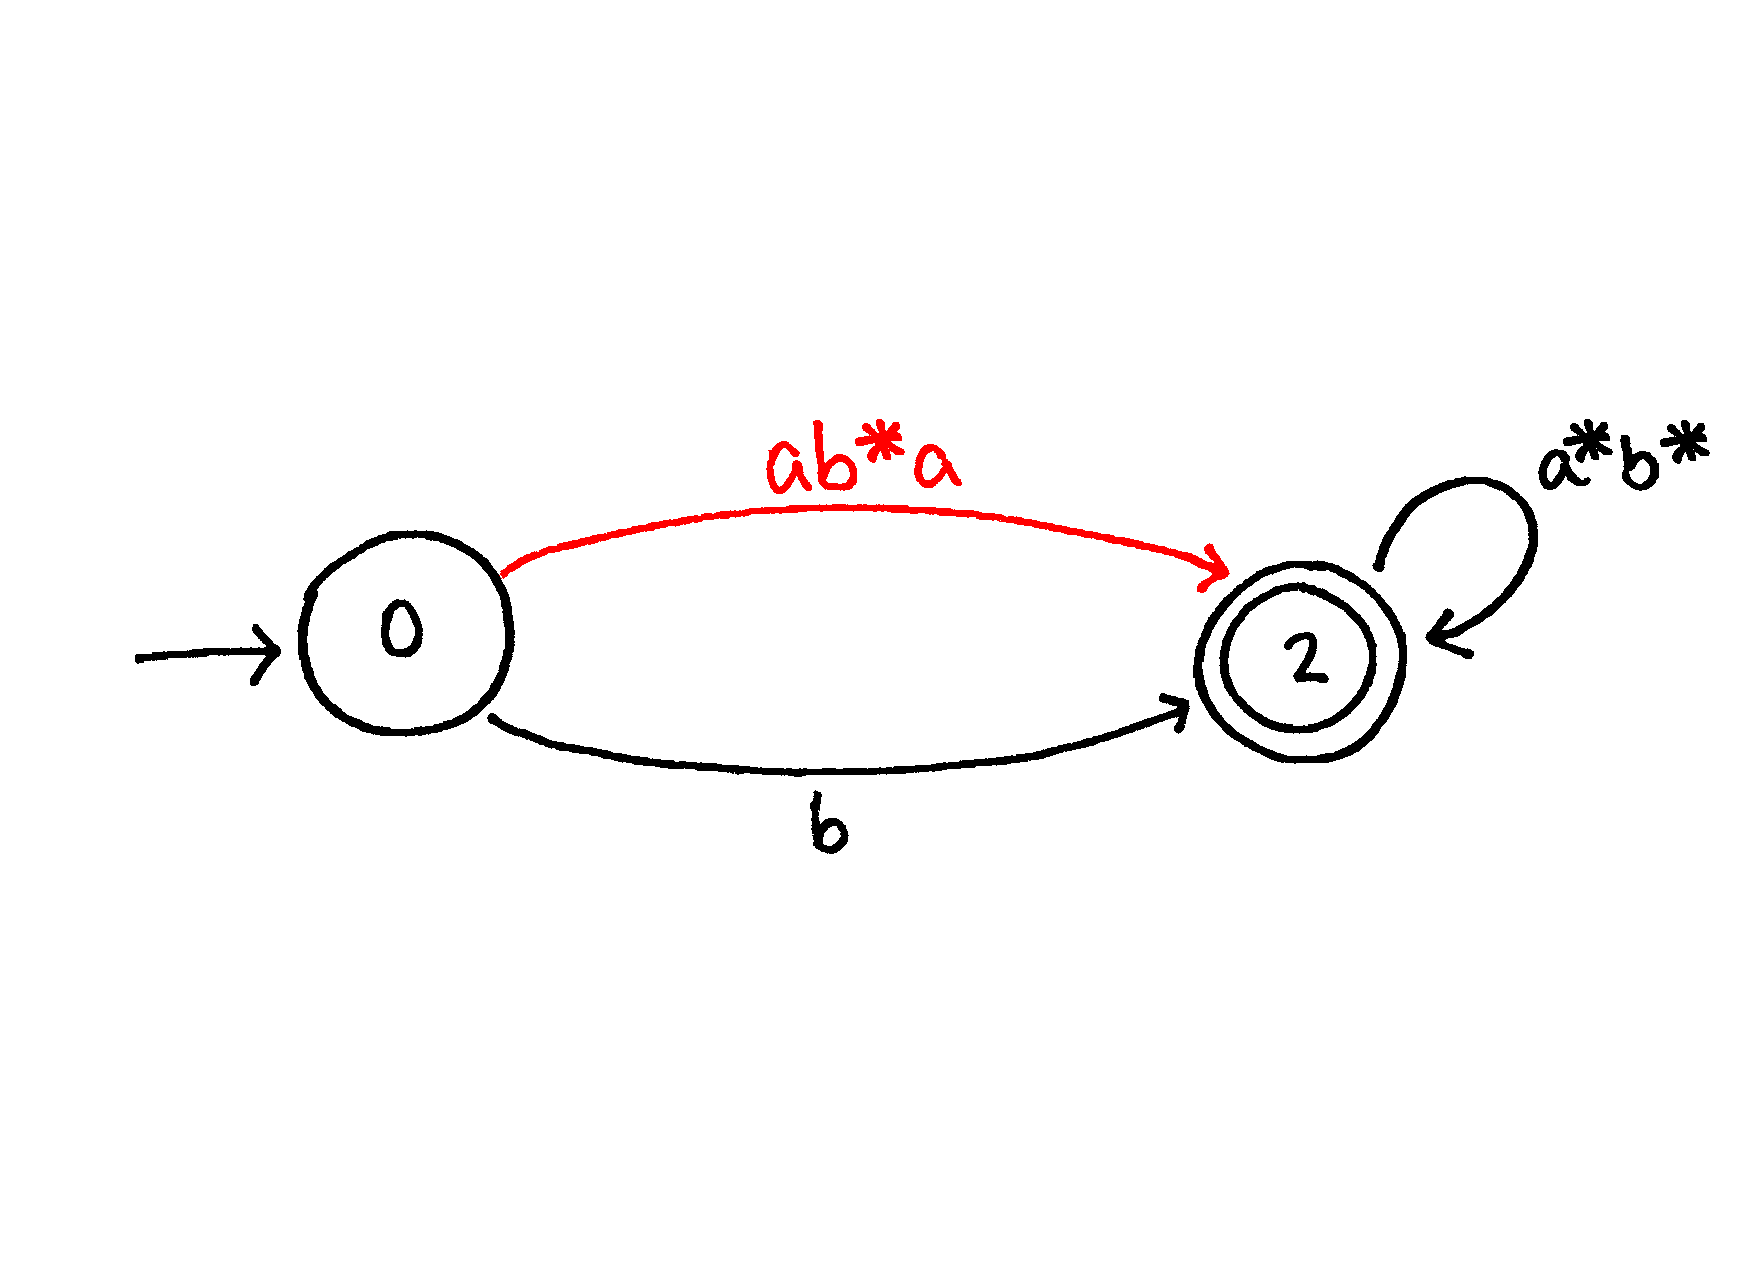
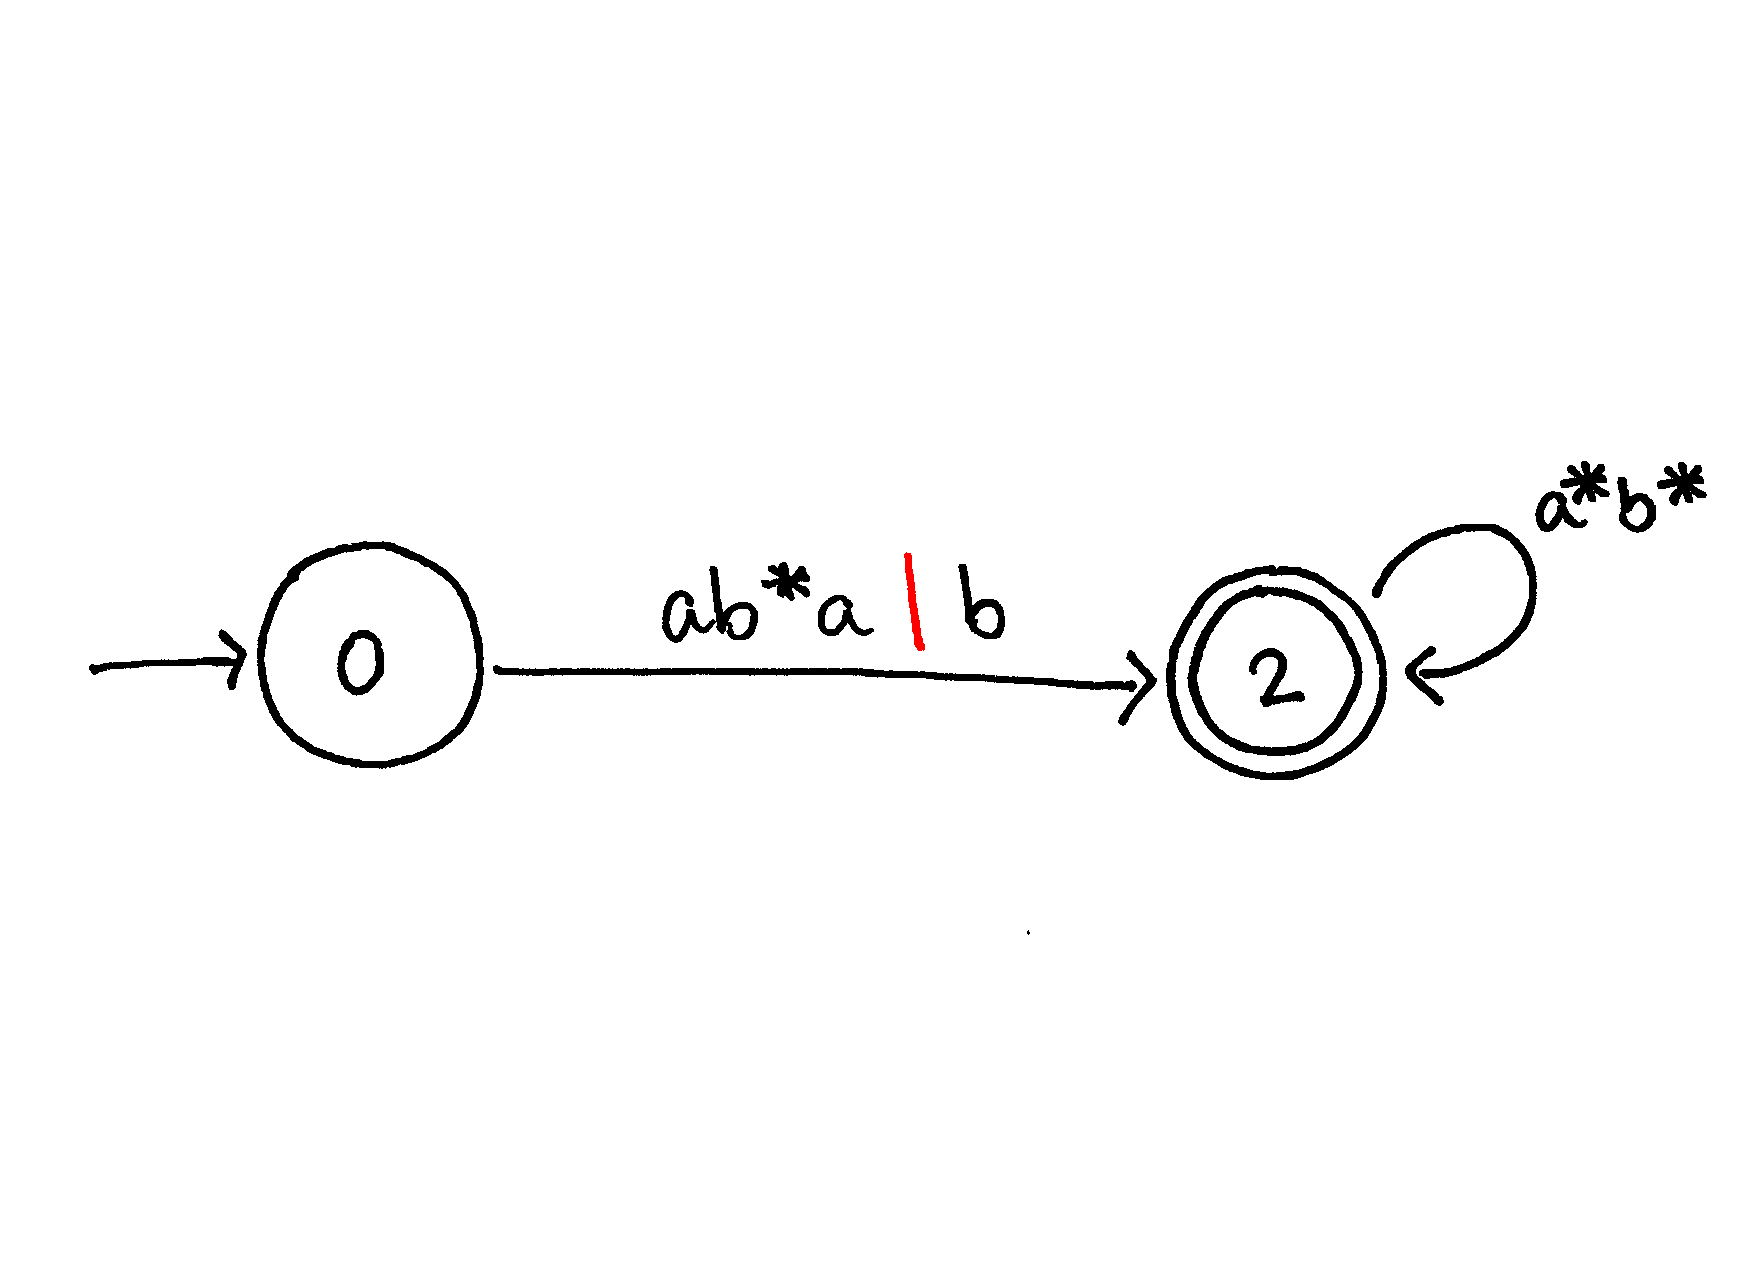
updated NFA to Regex and references

diff --git a/nfa_to_regex_examples.html b/nfa_to_regex_examples.html
@@ -75,16 +75,93 @@
                     <h2 class="section-heading">Practice Problems for NFA to Regex</h2>
                     <hr class="light">
 
-                    <ol class="regex-nfa">
-                        <li>Example 1</li>
-                        <li>Example 2</li>
-                        <li>Example 3</li>
-                        <li>Example 4</li>
-                        <li>Example 5</li>
-                    </ol>
+                    <p>Here are some practice problems.<br>
+                    Try to convert the NFA to a regular expression.<br>
+                    Read the captions for guidance.<br><br>
+                    *Disclaimer: There are many other ways to write regular expressions so don't dispair if your final regex is not the as ours!</p>
 
-                    Click below to learn how to convert regex to NFA!<br>
-                    <a href="regex_to_nfa.html" class="btn btn-default btn-xl sr-button">Learn more</a>
+                    <p class="problem">Practice Problem 1</p>
+                    <div id="myCarousel" class="carousel slide" data-ride="carousel" data-interval="false">
+                      <!-- Indicators -->
+                      <ol class="carousel-indicators">
+                        <li data-target="#myCarousel" data-slide-to="0" class="active"></li>
+                        <li data-target="#myCarousel" data-slide-to="1"></li>
+                        <li data-target="#myCarousel" data-slide-to="2"></li>
+                      </ol>
+
+                      <!-- Wrapper for slides -->
+                      <div class="carousel-inner">
+                        <div class="item active">
+                          <center><img src="img/NFAtoRegex/ex3.0.png" class="img-size3"><br><p class="car-text">Given this NFA, we will create a regular expression.</p></center>
+                        </div>
+
+                        <div class="item">
+                          <center><img src="img/NFAtoRegex/ex3.1.png" class="img-size3"><br><p class="car-text">First, add the Kleene star to arcs looping back to the same state.</p></center>
+                        </div>
+
+                        <div class="item">
+                          <center><img src="img/NFAtoRegex/ex3.2.png" class="img-size3"><br><p class="car-text">Next, delete state 0 by combining the arc leading to state 1 with the arc leading to state 2. The plus sign means one or more. Don't forget to add the loop from state 0 to state 1!</p></center>
+                        </div>
+
+                        <div class="item">
+                          <center><img src="img/NFAtoRegex/ex3.3.png" class="img-size3"><br><p class="car-text">Now, collapse state 1 into state 2 and add their arches together. In this case, simply add the <i>b</i> at the end of each arc expression. Don't forget the loop!</p></center>
+                        </div>
+
+                        <div class="item">
+                          <center><img src="img/NFAtoRegex/ex3.4.png" class="img-size3"><br><p class="car-text">Combine state 2 and 3 and simplify your final expression. We use an <i>or</i> because there were two possible arcs to reach state 3. We can combine the <i>b</i>'s the final <i>b*</i> to create at least one or more <i>b</i>'s.</i></p></center>
+                        </div>
+                      </div>
+
+                      <!-- Left and right controls -->
+                      <a class="left carousel-control" href="#myCarousel" data-slide="prev">
+                        <span class="glyphicon glyphicon-chevron-left"></span>
+                        <span class="sr-only">Previous</span>
+                      </a>
+                      <a class="right carousel-control" href="#myCarousel" data-slide="next">
+                        <span class="glyphicon glyphicon-chevron-right"></span>
+                        <span class="sr-only">Next</span>
+                      </a>
+                    </div>
+
+                    <p class="problem">Practice Problem 2</p>
+                    <div id="myCarousel2" class="carousel slide" data-ride="carousel" data-interval="false">
+                      <!-- Indicators -->
+                      <ol class="carousel-indicators">
+                        <li data-target="#myCarousel" data-slide-to="0" class="active"></li>
+                        <li data-target="#myCarousel" data-slide-to="1"></li>
+                        <li data-target="#myCarousel" data-slide-to="2"></li>
+                      </ol>
+
+                      <!-- Wrapper for slides -->
+                      <div class="carousel-inner">
+                       <div class="item active">
+                          <center><img src="img/NFAtoRegex/ex2.0.png" class="img-size3"><br><p class="car-text">This is quite a tricky problem, see if you can figure it out!</p></center>
+                        </div>
+
+                        <div class="item">
+                          <center><img src="img/NFAtoRegex/ex2.1.png" class="img-size3"><br><p class="car-text">Delete state 1, being careful to note the loops it is part of and adding them to state 0 and state 2. Don't forget to add their influence to the two remaining arcs connecting states 0 and 2.</p></center>
+                        </div>
+
+                        <div class="item">
+                          <center><img src="img/NFAtoRegex/ex2.2.png" class="img-size3"><br><p class="car-text">Next, delete state 2 and combine the remaining regex. Once again consider state 2 as a transition in part of a bigger loop. Combine the regex that surround it.</p></center>
+                        </div>
+
+                        <div class="item">
+                          <center><img src="img/NFAtoRegex/ex2.3.png" class="img-size3"><br><p class="car-text">Finally, add the loop that was present on state 0.</p></center>
+                        </div>
+                        
+                    </div>
+
+                      <!-- Left and right controls -->
+                      <a class="left carousel-control" href="#myCarousel2" data-slide="prev">
+                        <span class="glyphicon glyphicon-chevron-left"></span>
+                        <span class="sr-only">Previous</span>
+                      </a>
+                      <a class="right carousel-control" href="#myCarousel2" data-slide="next">
+                        <span class="glyphicon glyphicon-chevron-right"></span>
+                        <span class="sr-only">Next</span>
+                      </a>
+                    </div>
                 </div>
             </div>
         </div>

diff --git a/nfa_to_regex.html b/nfa_to_regex.html
@@ -81,15 +81,20 @@
 
                     <ol class="nfa-regex" style="text-align: left;">
                         <li>Below is the NFA we will convert to a regular expression.<br>
-                            <img src="img/NFAtoRegex/ex1.0.png" class="img-size4"></li>
+                        <img src="img/NFAtoRegex/ex1.0.png" class="img-size4"></li>
+
                         <li>First, add a Kleene star to the loops on states 0 and 2. Because the arc loops back to the same state, you can have zero or more of the chosen character, indicated by the star.<br> 
                         <img src="img/NFAtoRegex/ex1.1.png" class="img-size4"></li>
+
                         <li>Next, we will prepare to delete state 0. State 0 forms a loop to and from state 1. We add this loop to state 1, indicating the regex needed to travel from state 1 to state 0 > <i>a</i>, through state 0 > <i>b*</i>, and back to state 1 > <i>a</i> to form <i>ab*a</i>.<br>
                         <img src="img/NFAtoRegex/ex1.2.png" class="img-size4"></li>
+
                         <li>Now we will perform the same operation to remove state 2. From state 1 > <i>b</i> to state 2 > <i>a*</i> back to state 1 > <i>b</i> to form a loop with <i>ba*b.</i><br>
                         <img src="img/NFAtoRegex/ex1.3.png" class="img-size4"></li>
+
                         <li>We will now continue to work to delete state 0. Combine the loop on state 0 with the arc leading to state 1 to form the regex <i>b*a.</i><br>
                         <img src="img/NFAtoRegex/ex1.4.png" class="img-size4"></li>
+
                         <li>Finally, we combine the arc leading from state 0 to state 1, the final state. We need <i>b*a</i> to travel from state 1 to state 0. Then we have two loops, which we connect with an <i>or</i> because we can either loop through the top loop or the bottom loop. Presto!<br>
                         <img src="img/NFAtoRegex/ex1.5.png" class="img-size4"></li>
                     </ol>
@@ -108,25 +113,25 @@
                       <!-- Wrapper for slides -->
                       <div class="carousel-inner">
                         <div class="item active">
-                          <center><img src="img/regexToNFA/ex1.0.png" class="img-size3"><br><p class="car-text">Given a regex, we will now convert it to a NFA.</p></center>
+                          <center><img src="img/NFAtoRegex/ex4.0.png" class="img-size3"><br><p class="car-text">Given this NFA, we will create a regular expression.</p></center>
                         </div>
 
                         <div class="item">
-                          <center><img src="img/regexToNFA/ex1.1.png" class="img-size3"><br><p class="car-text">First, we will look at just <i>a</i>. This is the NFA for regex: a.</p></center>
+                          <center><img src="img/NFAtoRegex/ex4.1.png" class="img-size3"><br><p class="car-text">First, add the Kleene star to arcs looping back to the same state.</p></center>
                         </div>
 
                         <div class="item">
-                          <center><img src="img/regexToNFA/ex1.2.png" class="img-size3"><br><p class="car-text">Then we will look at just <i>b</i>. This is the NFA for regex: b.</p></center>
+                          <center><img src="img/NFAtoRegex/ex4.2.png" class="img-size3"><br><p class="car-text">Next, delete state 1 and combine its arcs to point from state 0 to state 3.</p></center>
                         </div>
 
                         <div class="item">
-                          <center><img src="img/regexToNFA/ex1.3.png" class="img-size3"><br><p class="car-text">Then, we will add the union symbol into the regex, combining a and b, which will lead to ε arcs. The union symbol is similar to <i>boolean or</i>.</p></center>
+                          <center><img src="img/NFAtoRegex/ex4.3.png" class="img-size3"><br><p class="car-text">Collapse the two arcs together by using an <i>or</i> since they are both pointing to the same state from the same state.</p></center>
                         </div>
 
                         <div class="item">
-                          <center><img src="img/regexToNFA/ex1.4.png" class="img-size3"><br><p class="car-text">The Kleene star means to recurse the regex inside the parentheses of the star, so we add ε arcs to go back to the beginning of the NFA.</p></center>
+                          <center><img src="img/NFAtoRegex/ex4.4.png" class="img-size3"><br><p class="car-text">Finally, combine your remaining two states to create this beautiful regular expression.</p></center>
                         </div>
-                      </div>
+                    </div>
 
                       <!-- Left and right controls -->
                       <a class="left carousel-control" href="#myCarousel" data-slide="prev">
@@ -141,7 +146,7 @@
                     <br>
 
                     Click below to see more examples to practice:<br>
-                    <a href="regex_to_nfa_examples.html" class="btn btn-default btn-xl sr-button">Learn more</a>
+                    <a href="nfa_to_regex_examples.html" class="btn btn-default btn-xl sr-button" id="learnMoreButton">Learn more</a>
                 </div>
             </div>
         </div>

diff --git a/references.html b/references.html
@@ -74,12 +74,28 @@
                 <div class="col-lg-8 col-lg-offset-2 text-center">
                     <h2 class="section-heading">References</h2>
                     <hr class="light">
-                    <p class="text-faded">A list of references we used for our project, and additional resources!</p>
+                    <p class="text-faded">
+                    This website was created as part of a final project for CSC 250:<br>
+                    Theory of Computation at Smith College, Spring 2017, by Jenny Huang and Muriel Brunet.<br><br>
+                    A list of references we used for our project, and additional resources!</p>
                     <ol type="I" class="regex-nfa">
                         <li><a href="http://www.cs.may.ie/staff/jpower/Courses/Previous/parsing/node5.html" class="links-text">Thompson's Algorithm</a></li>
+
                         <li><a href="https://en.wikipedia.org/wiki/Thompson%27s_construction" class="links-text">Wiki Thompson's Algorithm</a></li>
+
                         <li><a href="http://hackingoff.com/compilers/regular-expression-to-nfa-dfa" class="links-text">Online Converter of Regex to NFA</a></li>
+
                         <li>Sipser, Michael. “Introduction to the Theory of Computation.” Ed. Lee, Marie. GEX Publising. Cengage Learning, Inc. 2013.</li>
+
+                        <li><a href="http://math.hws.edu/FoundationsOfComputation/" class="links-text"><i>Foundations of Computation</i></a>, by Carol Critchlow and David Eck, Chapter 3, Part 6, pg. 166.</li>
+
+                        <li>CSC 373: Theory of Computation <a href="https://courses.engr.illinois.edu/cs373/sp2009/lectures/lect_08.pdf" class="links-text">course lecture</a> by Sariel Har-Peled and Madhusudan Parthasarathy at the University of Illinois, Department of Engineering.</li>
+
+                        <li>Discussions on NFA to Regex conversions on <a href="https://cs.stackexchange.com/questions/2016/how-to-convert-finite-automata-to-regular-expressions" class="links-text">StackExhange</a></li>
+
+                        <li><a href="https://www.youtube.com/watch?v=RYNN-tb9WxI" class="links-text">Regular Expression to NFA</a> instructional video by Barry Brown, professor of computer science at Sierra College near Sacramento, California.</li>
+
+                        <li><a href="https://www.youtube.com/watch?v=v4vo1uKSMII" class="links-text">Regular Expressions to NFA/eNFA</a> instructional video by Mifta Sintaha.</li>
                     </ol>
                 </div>
             </div>

diff --git a/regex_to_nfa_examples.html b/regex_to_nfa_examples.html
@@ -75,10 +75,13 @@
                     <h2 class="section-heading">Practice Problems for Regex to NFA</h2>
                     <hr class="light">
 
-                    <p>Here are some practice problems. Try to convert the regex to a NFA; use the right and left arrows for help.<br><br>
-                        *Disclaimer: There are many other ways to generate a NFA from regex, we only show one of the possible solution(s).</p>
+                    <p>Here are some practice problems.<br>
+                    Try to convert the regular expression to a NFA.<br>
+                    Read the captions for guidance.<br><br>
+                    *Disclaimer: There are many other ways to generate a NFA from regex, <br>
+                    we only show one of the possible solution(s).</p>
 
-                    <p class="text-faded">Practice Problem 1</p>
+                    <p class="problem">Practice Problem 1</p>
                     <div id="myCarousel" class="carousel slide" data-ride="carousel" data-interval="false">
                       <!-- Indicators -->
                       <ol class="carousel-indicators">
@@ -117,7 +120,7 @@
                       </a>
                     </div>
 
-                    <p class="text-faded">Practice Problem 2</p>
+                    <p class="problem">Practice Problem 2</p>
                     <div id="myCarousel2" class="carousel slide" data-ride="carousel" data-interval="false">
                       <!-- Indicators -->
                       <ol class="carousel-indicators">
@@ -165,7 +168,7 @@
                       </a>
                     </div>
 
-                    <p class="text-faded">Practice Problem 3</p>
+                    <p class="problem">Practice Problem 3</p>
                     <div id="myCarousel3" class="carousel slide" data-ride="carousel" data-interval="false">
                       <!-- Indicators -->
                       <ol class="carousel-indicators">

diff --git a/css/creative.css b/css/creative.css
@@ -67,6 +67,17 @@ p {
   padding-right: 18%;
 }
 
+#learnMoreButton {
+  margin: 20px;
+}
+
+.problem {
+  margin-top: 100px;
+  color: white;
+  text-decoration: underline;
+  font-size: 1.5em;
+}
+
 .img-size{
   width: 70%;
   height: auto;
@@ -93,7 +104,7 @@ p {
   margin-top: 20px;
   margin-bottom: 20px;
   padding-left: 0px;
-  background-color: rgba(252, 147, 147, 0.3);
+  background-color: rgba(255, 255, 255, 0.2);
 }
 
 .boxed{

diff --git a/regex_to_nfa.html b/regex_to_nfa.html
@@ -137,7 +137,7 @@
                     <br>
 
                     Click below to see more examples to practice:<br>
-                    <a href="regex_to_nfa_examples.html" class="btn btn-default btn-xl sr-button">Learn more</a>
+                    <a href="regex_to_nfa_examples.html" class="btn btn-default btn-xl sr-button" id="learnMoreButton">Learn more</a>
                 </div>
             </div>
         </div>
